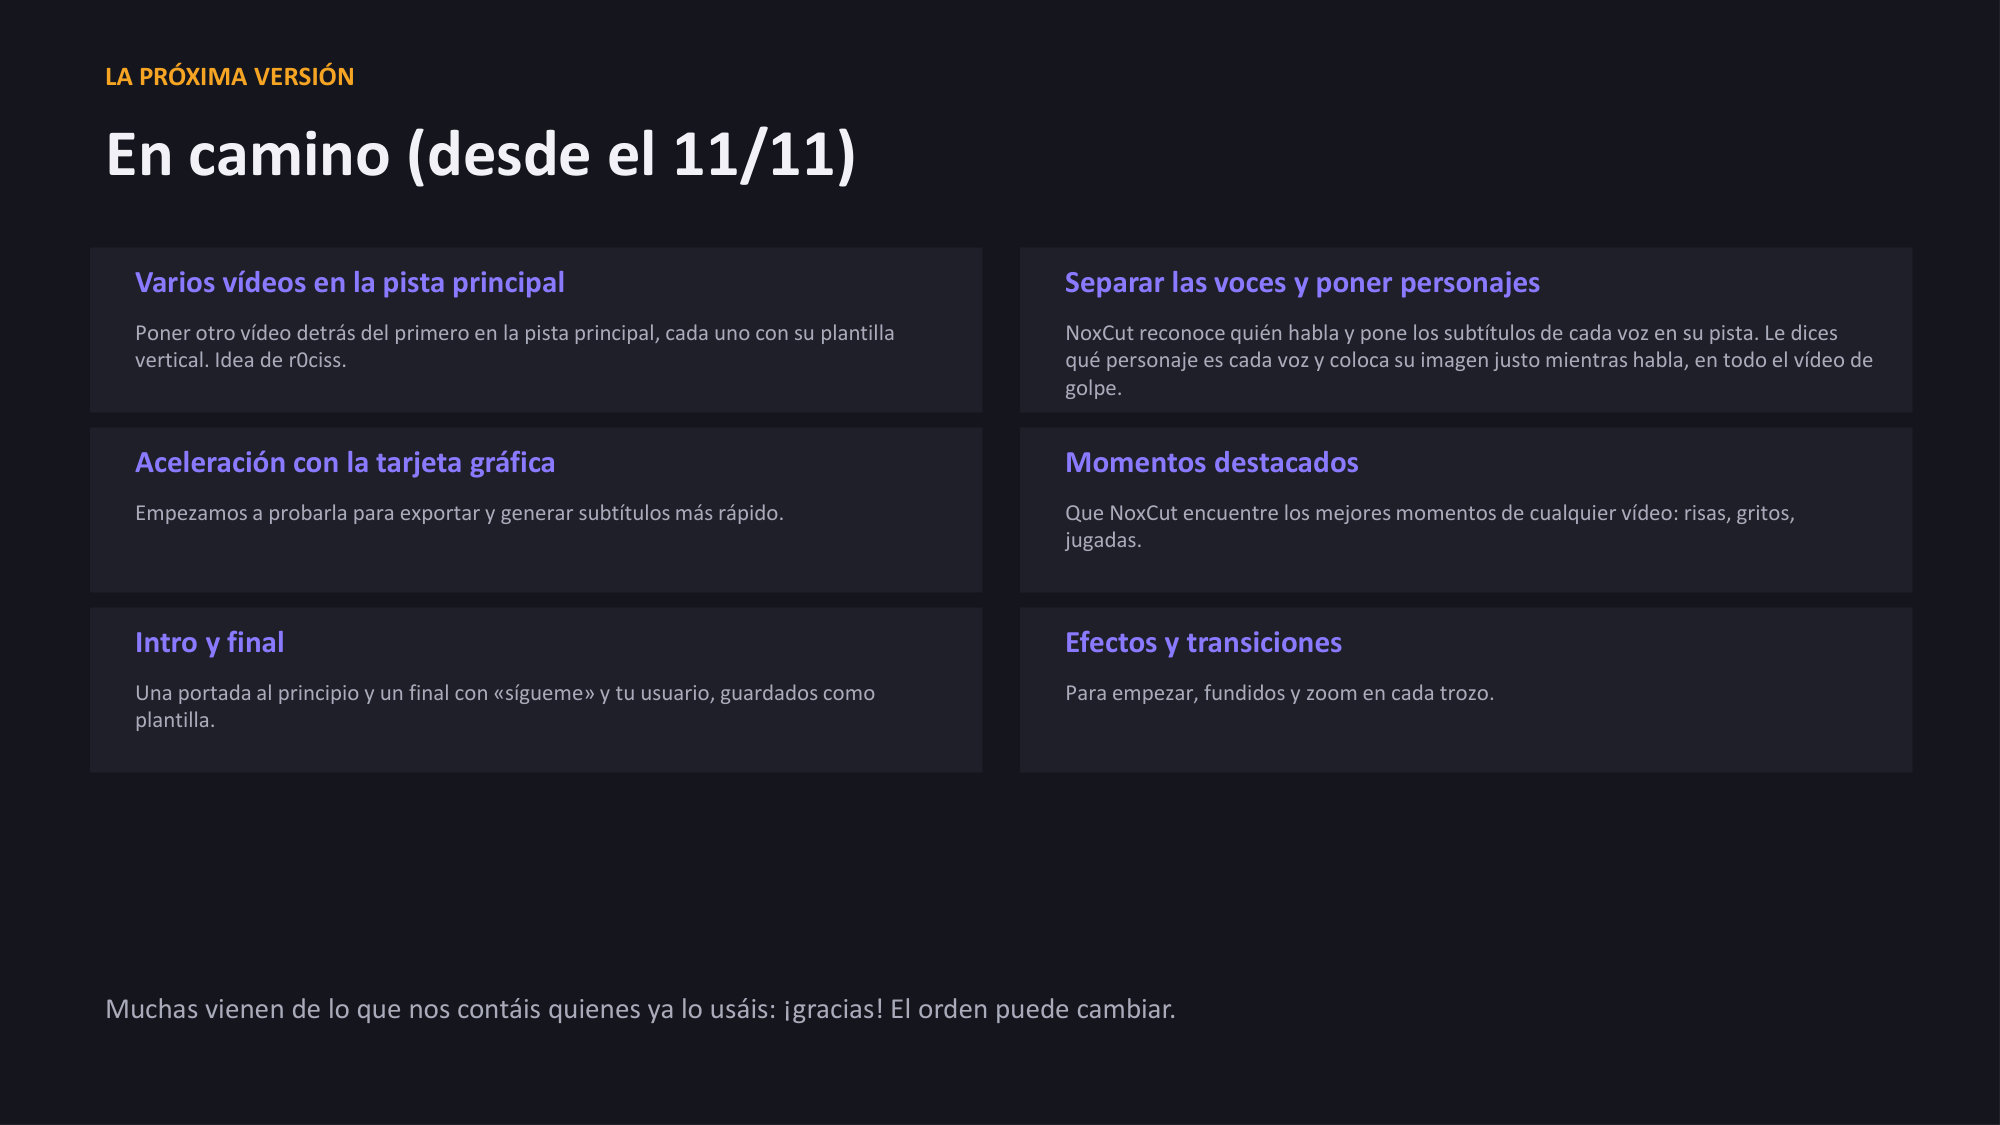
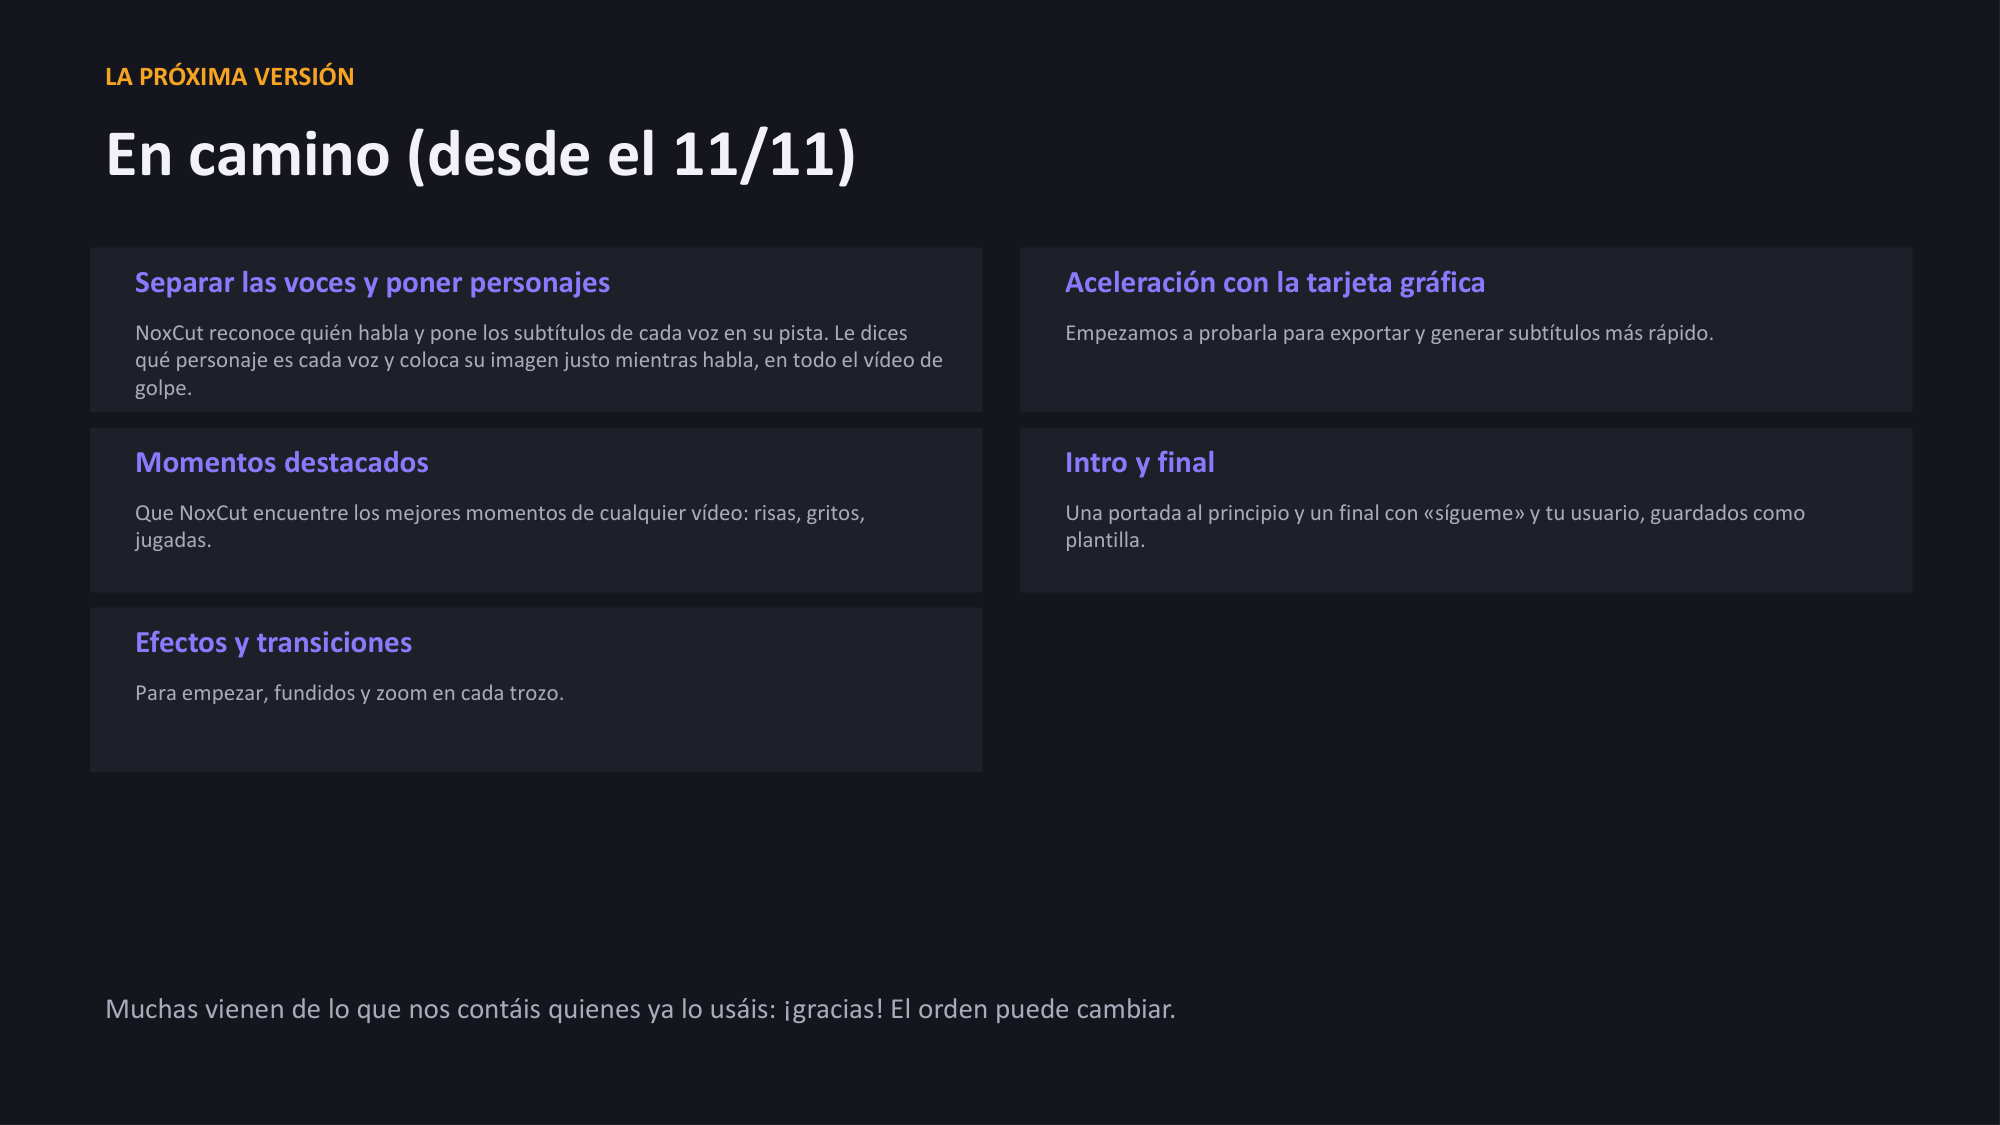
Presentación actualizada (11/11/2026)

diff --git a/index.html b/index.html
@@ -88,9 +88,9 @@ button:focus-visible { outline: 2px solid var(--amber); outline-offset: 2px; }
     <img src="diapositivas/19.jpg?v=0bcd146299" alt="Diapositiva 19: ANTES Y DESPUÉS Un lavado de cara Antes Ahora El reproductor antes El reproductor ahora ●Botones agrupados por lo que hacen, con iconos en vez de emojis; «Expor">
     <img src="diapositivas/20.jpg?v=29270023ee" alt="Diapositiva 20: LICENCIAS Cada ordenador, su propia clave Lo que ve quien instala NoxCut la primera vez 1 Instalas NoxCut La primera vez te enseña el código único de tu ordenad">
     <img src="diapositivas/21.jpg?v=6da8a65816" alt="Diapositiva 21: DERECHOS Una obra registrada y protegida © © 2026 Garzanox · Todos los derechos reservados Registrado en Safe Creative Nº 2611067566781 · 06/11/2026 Autor Garza">
-    <img src="diapositivas/22.jpg?v=d3f887d1ef" alt="Diapositiva 22: CÓMO SE HA HECHO 11 días, 113 avances 30/10 · 14:07 Primera exportación 30/10 · 16:27 Estilos y modo pop 30/10 · 21:02 Montaje 31/10 · 11:30 Generar cortes 31/1">
-    <img src="diapositivas/23.jpg?v=b9b34a71f3" alt="Diapositiva 23: RESULTADOS En números 11 días del prototipo a editor de vídeo (30/10 a 11/11/2026) 113 avances en la cronología, cada uno probado 13 s para encontrar las 11 par">
-    <img src="diapositivas/24.jpg?v=2df12b762e" alt="Diapositiva 24: LA PRÓXIMA VERSIÓN En camino (desde el 11/11) Varios vídeos en la pista principal Poner otro vídeo detrás del primero en la pista principal, cada uno con su pla">
+    <img src="diapositivas/22.jpg?v=c9838720f5" alt="Diapositiva 22: CÓMO SE HA HECHO 11 días, 114 avances 30/10 · 14:07 Primera exportación 30/10 · 16:27 Estilos y modo pop 30/10 · 21:02 Montaje 31/10 · 11:30 Generar cortes 31/1">
+    <img src="diapositivas/23.jpg?v=9e2c730770" alt="Diapositiva 23: RESULTADOS En números 11 días del prototipo a editor de vídeo (30/10 a 11/11/2026) 114 avances en la cronología, cada uno probado 13 s para encontrar las 11 par">
+    <img src="diapositivas/24.jpg?v=237bdf0b1e" alt="Diapositiva 24: LA PRÓXIMA VERSIÓN En camino (desde el 11/11) Separar las voces y poner personajes NoxCut reconoce quién habla y pone los subtítulos de cada voz en su pista. Le">
     <img src="diapositivas/25.jpg?v=40b7428dda" alt="Diapositiva 25: MÁS ADELANTE Lo que viene Versión para Linux Lo mismo que en Mac y Windows: instalar y abrir con un clic. Subtítulos acelerados en más gráficas Después de NVIDI">
     <button class="side prev" id="sidePrev" aria-label="Diapositiva anterior"></button>
     <button class="side next" id="sideNext" aria-label="Diapositiva siguiente"></button>
